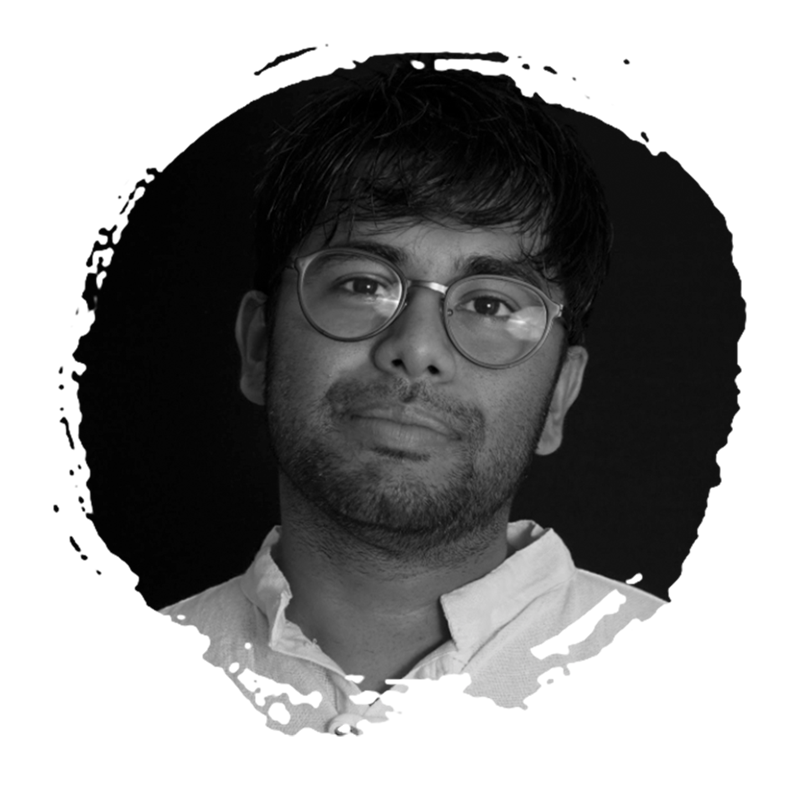
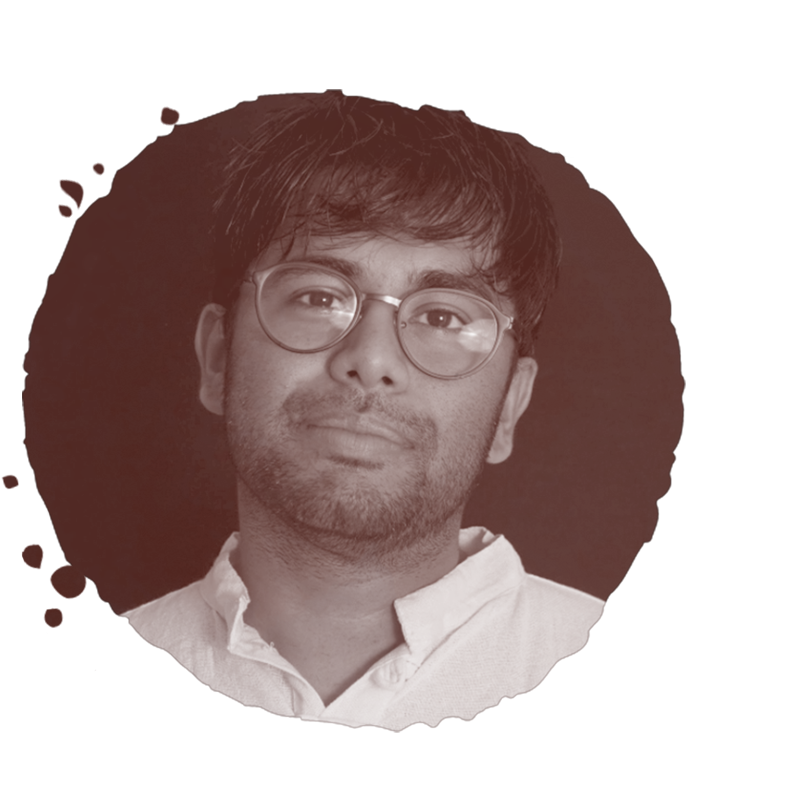
Team Data & 360 image media query

diff --git a/_layouts/collection.html b/_layouts/collection.html
@@ -5,13 +5,63 @@ layout: archive
 {{ content }}
 
 <div id="main" role="main" style="margin-top: 40px; padding-bottom: 0px; padding-right: 0;padding-left: 0;"> 
+	<div class = "projects" style="margin-top: 0px;"> 
+            <h1 id = "page-title" class = "page__title" >Collaborators</h1>
+	</div>
+</div>
+
+<div>
+<p>
+This project is a collaboration between award-winning animators, VR filmmakers, and experienced developers and artists.
+</p>
+
+<a href="https://www.thematchbox.co/" target="_blank"><img src="assets/img/mvrimages/partners_logo_tmb.png"></a>
+&emsp;&emsp;&emsp;&emsp;	
+<a href="http://www.idc.iitb.ac.in/" target="_blank"><img src="assets/img/mvrimages/partners_logo_idc.png"></a>
+
+</div>
+
+<br><br>
+<hr style="height:1px;border-width:0;color:#fcd5ce;background-color:#fcd5ce">
+
+<div id="main" role="main" style="margin-top: 40px; padding-bottom: 0px; padding-right: 0;padding-left: 0;"> 
 
     <div class = "projects" style="margin-top: 0px;"> 
-            <h1 id = "page-title" class = "page__title" >Team</h1>
-     </div>
-
+            <h1 id = "page-title" class = "page__title" >Core Team</h1>
+    </div>
 </div>
 
 <div class="entries-{{ page.entries_layout }}">
   {% include documents-collection.html collection=page.collection sort_by=page.sort_by sort_order=page.sort_order type=page.entries_layout %}
 </div>
+
+<div>
+<br><br>
+<hr style="height:1px;border-width:0;color:#fcd5ce;background-color:#fcd5ce">
+
+</div>
+
+<div id="main" role="main" style="margin-top: 40px; padding-bottom: 0px; padding-right: 0;padding-left: 0;"> 
+	<div class = "projects" style="margin-top: 0px;"> 
+            <h1 id = "page-title" class = "page__title" ></h1>
+	</div>
+</div>
+
+<br><br>
+<hr style="height:1px;border-width:0;color:#fcd5ce;background-color:#fcd5ce">
+
+<div id="main" role="main" style="margin-top: 40px; padding-bottom: 0px; padding-right: 0;padding-left: 0;"> 
+	<div class = "projects" style="margin-top: 0px;"> 
+            <h1 id = "page-title" class = "page__title" >Extended Team (Animatics)</h1>
+	</div>
+</div>
+
+<div>
+<p>
+<a href="https://in.linkedin.com/in/raobott" target="_blank"><b>Ravi Rao</b></a> : Animation Consultant <br>
+<a href="https://in.linkedin.com/in/tanmaykashyap" target="_blank"><b>Tanmay Kashyap</b></a> : Animatics - Reference Music <br>
+<a href="https://in.linkedin.com/in/shivam-kumar-5880a6198" target="_blank"><b>Shivam Kumar</b></a> : Animatics - Intern Student <br>
+</p>
+
+</div>
+

diff --git a/_sass/minimal-mistakes/_page.scss b/_sass/minimal-mistakes/_page.scss
@@ -670,3 +670,19 @@ Home AR 360 images
         height: 400px;  /* The height is 400 pixels */
         width: 100%;  /* The width is the width of the web page */
        }
+
+
+
+/*
+Media Query
+========================================================================== */
+
+@media only screen and (max-width: 600px) {  
+
+.ar_home{
+    
+    height: 200px;
+    
+}
+
+}

diff --git a/_sass/minimal-mistakes/_archive.scss b/_sass/minimal-mistakes/_archive.scss
@@ -103,7 +103,7 @@
 
 .archive__item-teaser {
   position: relative;
-  //border-radius: $border-radius*3;
+  border-radius: $border-radius*3;
   overflow: hidden;
 }
 
@@ -560,7 +560,7 @@ position: absolute;
     display: flex;
     flex-direction: row;
       justify-content: space-between;
-
+      border-radius: $border-radius*3;
 
     
  

diff --git a/_people/9_shantanu.md b/_people/9_shantanu.md
@@ -1,16 +1,16 @@
 ---
 layout: single
-title:  Arun Babu
-position: 3D Content Designer
+title:  Shantanu Yennemadi
+position: Sound Designer
 role: "team"
 header:
-    teaser: /assets/img/people/mvr_team_placeholder.png
+    teaser: /assets/img/people/mvr_team_shantanu.png
 permalink: /people/arun
 type: people
 fullpage: "no"
 modal: "no"
 modaltext: "Text Goes Here."
-modalname: "arun"
+modalname: "shantanu"
 links:
     - label: "Email"
       icon: "fas fa-fw fa-envelope-square"
@@ -23,7 +23,7 @@ links:
       #url: ""
     - label: "Linkedin"
       icon: "fab fa-fw fa-linkedin"
-      url: "https://www.linkedin.com/in/arun-babu-a55a1b124/"
+      url: "https://www.linkedin.com/in/shantanu-yennemadi-04412233/"
 ---
 
 Text Here

diff --git a/_people/9_yogini.md b/_people/9_yogini.md
@@ -1,16 +1,16 @@
 ---
 layout: single
-title:  Piyush Priyadarshi
-position: Production Manager
+title:  Yogini Mukund Oke
+position: Story Consultant
 role: "team"
 header:
-    teaser: /assets/img/people/mvr_team_placeholder.png
-permalink: /people/piyush
+    teaser: /assets/img/people/mvr_team_yogini.png
+permalink: /people/yogini
 type: people
 fullpage: "no"
 modal: "no"
 modaltext: "Text Goes Here."
-modalname: "piyush"
+modalname: "yogini"
 links:
     - label: "Email"
       icon: "fas fa-fw fa-envelope-square"
@@ -23,9 +23,7 @@ links:
       #url: ""
     - label: "Linkedin"
       icon: "fab fa-fw fa-linkedin"
-      #url: ""
+      url: "https://www.linkedin.com/in/yogini-oke-05845abb/"
 ---
 
 Text Here
-
-

diff --git a/_people/7_Vikas.md b/_people/7_Vikas.md
@@ -1,16 +1,16 @@
 ---
 layout: single
-title:  Shantanu Yennemadi
-position: Sound Designer
+title:  Vikas Srivastava
+position: Content Writer
 role: "team"
 header:
-    teaser: /assets/img/people/mvr_team_placeholder.png
-permalink: /people/shantanu
+    teaser: /assets/img/people/mvr_team_vikas.png
+permalink: /people/vikas
 type: people
 fullpage: "no"
 modal: "no"
 modaltext: "Text Goes Here."
-modalname: "shantanu"
+modalname: "vikas"
 links:
     - label: "Email"
       icon: "fas fa-fw fa-envelope-square"
@@ -23,7 +23,7 @@ links:
       #url: ""
     - label: "Linkedin"
       icon: "fab fa-fw fa-linkedin"
-      #url: ""
+      url: "https://in.linkedin.com/in/vikas-srivastava-55a0a0114"
 ---
 
 Text Here

diff --git a/_people/5_Anish.md b/_people/5_Anish.md
@@ -1,0 +1,31 @@
+---
+layout: single
+title:  Anish Sebastian
+position: Character Animator
+role: "team"
+header:
+    teaser: /assets/img/people/mvr_team_anish.png
+permalink: /people/anish
+type: people
+fullpage: "no"
+modal: "no"
+modaltext: "Text Goes Here."
+modalname: "anish"
+links:
+    - label: "Email"
+      icon: "fas fa-fw fa-envelope-square"
+      #url: mailto:entermailhere
+    - label: "Website"
+      icon: "fas fa-fw fa-link"
+      #url: ""
+    - label: "GitHub"
+      icon: "fab fa-fw fa-github"
+      #url: ""
+    - label: "Linkedin"
+      icon: "fab fa-fw fa-linkedin"
+      url: "https://in.linkedin.com/in/anish-sebastian-a16529172"
+---
+
+Text Here
+
+

diff --git a/_people/6_Arun.md b/_people/6_Arun.md
@@ -1,0 +1,31 @@
+---
+layout: single
+title: Arun Babu
+position: 3D Space Designer
+role: "team"
+header:
+    teaser: /assets/img/people/mvr_team_arun.png
+permalink: /people/arun
+type: people
+fullpage: "no"
+modal: "no"
+modaltext: "Text Goes Here."
+modalname: "arun"
+links:
+    - label: "Email"
+      icon: "fas fa-fw fa-envelope-square"
+      #url: mailto:entermailhere
+    - label: "Website"
+      icon: "fas fa-fw fa-link"
+      #url: ""
+    - label: "GitHub"
+      icon: "fab fa-fw fa-github"
+      #url: ""
+    - label: "Linkedin"
+      icon: "fab fa-fw fa-linkedin"
+      url: "https://www.linkedin.com/in/arun-babu-a55a1b124/"
+---
+
+Text Here
+
+

diff --git a/_people/2_Jayesh.md b/_people/2_Jayesh.md
@@ -9,7 +9,7 @@ permalink: /people/jayesh
 type: people
 fullpage: "no"
 modal: "yes"
-modaltext: "Jayesh is a VR Filmmaker. He works in the domain of immersive media design (virtual, augmented, and extended reality). Jayesh is presently a faculty at the IDC School of Design, IIT Bombay, India."
+modaltext: "Jayesh is a VR film-maker and academician who works in the domain of immersive media design (virtual, augmented, and extended reality). Jayesh is presently a faculty at the IDC School of Design, IIT Bombay, India."
 modalname: "jayesh"
 links:
     - label: "Email"

diff --git a/_people/8_Piyush.md b/_people/8_Piyush.md
@@ -1,16 +1,16 @@
 ---
 layout: single
-title:  Yogini Mukund Oke
-position: Story Consultant
+title:  Piyush Priyadarshi
+position: Production Manager
 role: "team"
 header:
-    teaser: /assets/img/people/mvr_team_placeholder.png
-permalink: /people/yogini
+    teaser: /assets/img/people/mvr_team_piyush.png
+permalink: /people/piyush
 type: people
 fullpage: "no"
 modal: "no"
 modaltext: "Text Goes Here."
-modalname: "yogini"
+modalname: "piyush"
 links:
     - label: "Email"
       icon: "fas fa-fw fa-envelope-square"
@@ -27,5 +27,3 @@ links:
 ---
 
 Text Here
-
-

diff --git a/team.md b/team.md
@@ -8,17 +8,3 @@ entries_layout: grid
 ---
 
 
-# <b>Collaborators</b>
-
-This project is a collaboration between award-winning animators, VR filmmakers, and experienced developers and artists.
-
-<div>
-<a href="https://www.thematchbox.co/" target="_blank"><img src="assets/img/mvrimages/partners_logo_tmb.png"></a>
-&emsp;&emsp;&emsp;&emsp;	
-<a href="http://www.idc.iitb.ac.in/" target="_blank"><img src="assets/img/mvrimages/partners_logo_idc.png"></a>
-
-</div>
-
-<br><br>
-<hr style="height:1px;border-width:0;color:#fcd5ce;background-color:#fcd5ce">
-<br>

diff --git a/_people/1_Abhishek.md b/_people/1_Abhishek.md
@@ -9,7 +9,7 @@ permalink: /people/abhishek
 type: people
 fullpage: "no"
 modal: "yes"
-modaltext: "Text Goes Here."
+modaltext: "Abhishek is a national award winning film-maker, animator, illustrator & screenplay writer. He has over 8+ years of experience in creating 2D animated content, and independent animation films for clients from different niches."
 modalname: "abhishek"
 links:
     - label: "Email"
